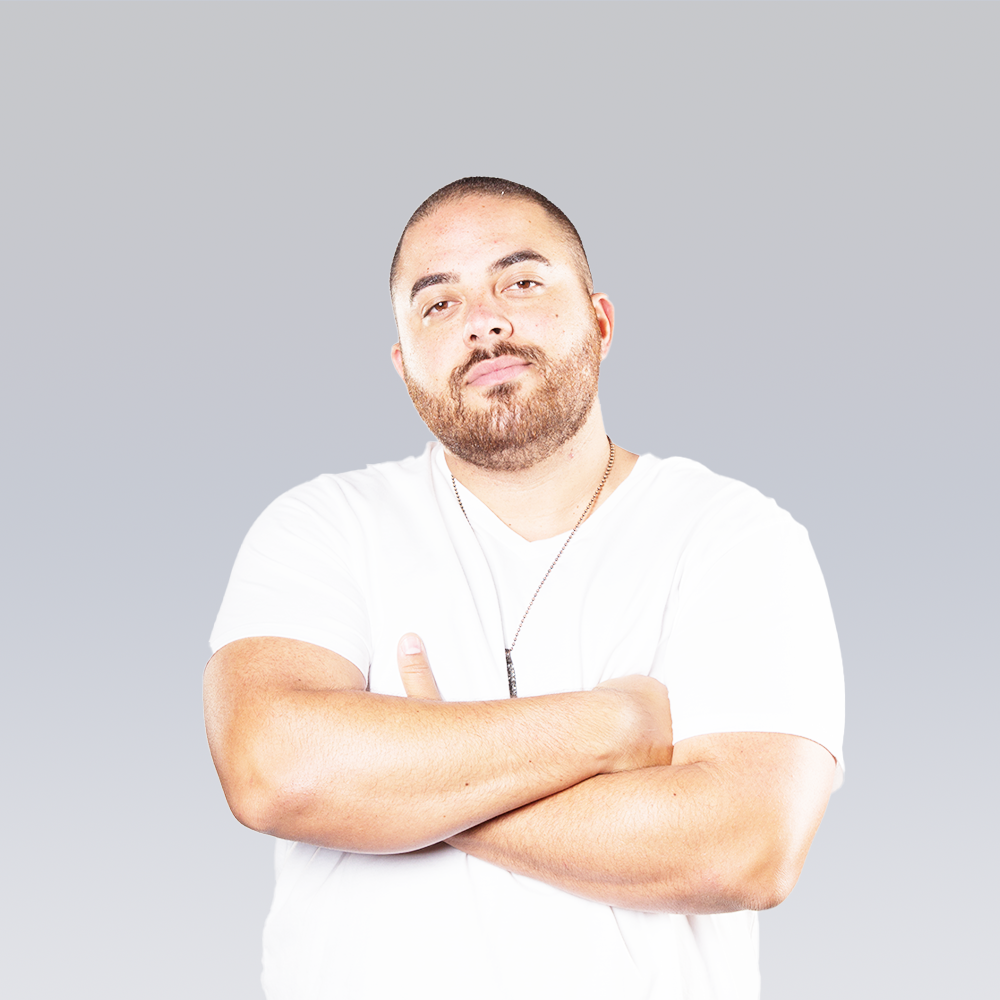
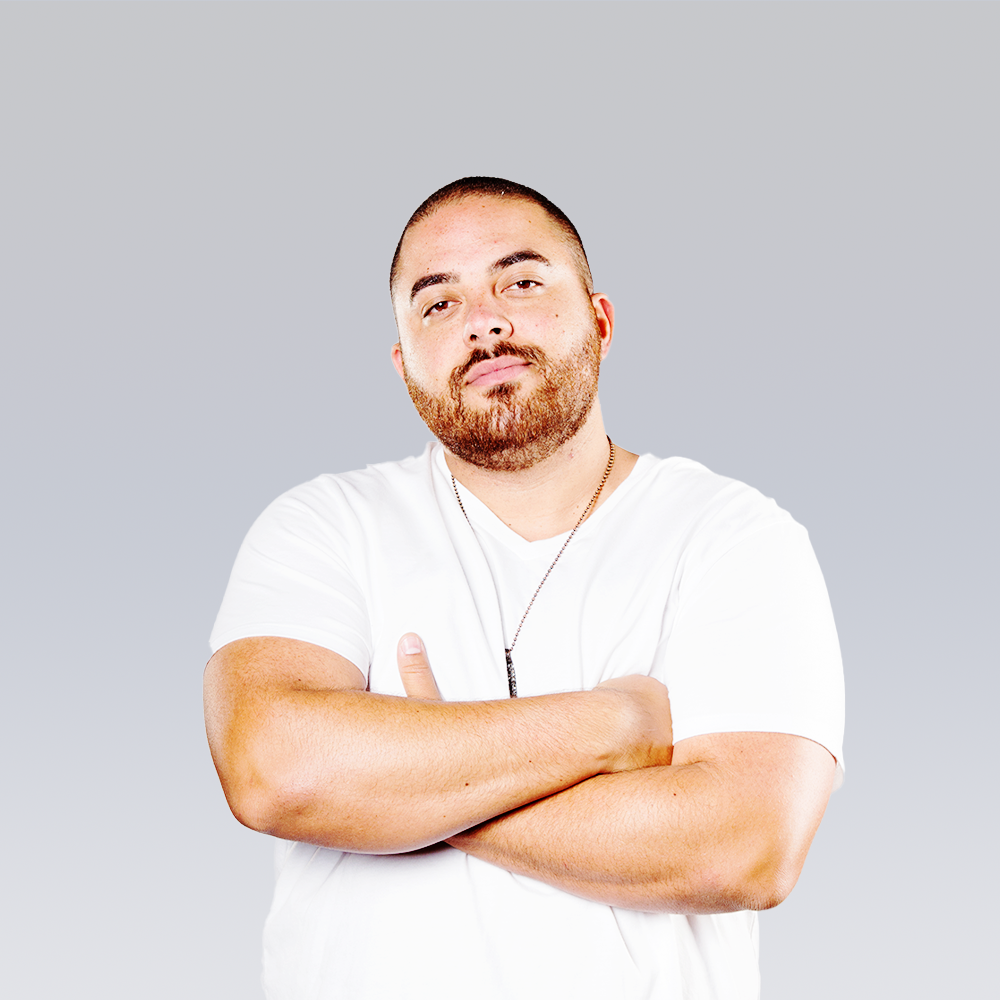
updated roster

Changed region(s): [[0.186, 0.62, 0.806, 0.93], [0.403, 0.155, 0.651, 0.496], [0.372, 0.248, 0.403, 0.279]]

diff --git a/data/RosterData.js b/data/RosterData.js
@@ -1,7 +1,7 @@
 export const RosterData = [
   {
     name: 'Jason Weiss',
-    img: '/assets/roster/default-dj.jpg',
+    img: '/assets/roster/jason-weiss-roster-img.png',
     bio: "I'm just here so we won't get fined.",
     fb: 'https://facebook.com/djjasonweiss',
     ig: 'https://instagram.com/djjasonweiss',
@@ -14,13 +14,6 @@ export const RosterData = [
     ig: 'https://instagram.com/djdr1ft',
   },
   {
-    name: 'Montone',
-    img: '/assets/roster/default-dj.jpg',
-    bio: 'Probably made your mom do the Macarena',
-    fb: 'https://facebook.com/djmontone',
-    ig: 'https://instagram.com/djmontone',
-  },
-  {
     name: 'Mike Lowry',
     img: '/assets/roster/mike-lowry-roster-img.png',
     bio: "I'm retired, but this is fun!",
@@ -30,7 +23,7 @@ export const RosterData = [
   {
     name: 'Ryno',
     img: '/assets/roster/ryno-roster-img.png',
-    bio: 'This is a short blurb about the DJ',
+    bio: 'The youngest and definitely the best looking.',
     fb: 'https://facebook.com/_djryno',
     ig: 'https://instagram.com/djryno_',
   },
@@ -43,7 +36,7 @@ export const RosterData = [
   },
   {
     name: 'Fotsbeats',
-    img: '/assets/roster/fots-roster-img.png',
+    img: '/assets/roster/fotsbeats-roster-img.png',
     bio: 'DJ Bad needs a new face.',
     fb: 'https://facebook.com/fotsbeats',
     ig: 'https://instagram.com/fotsbeats',
